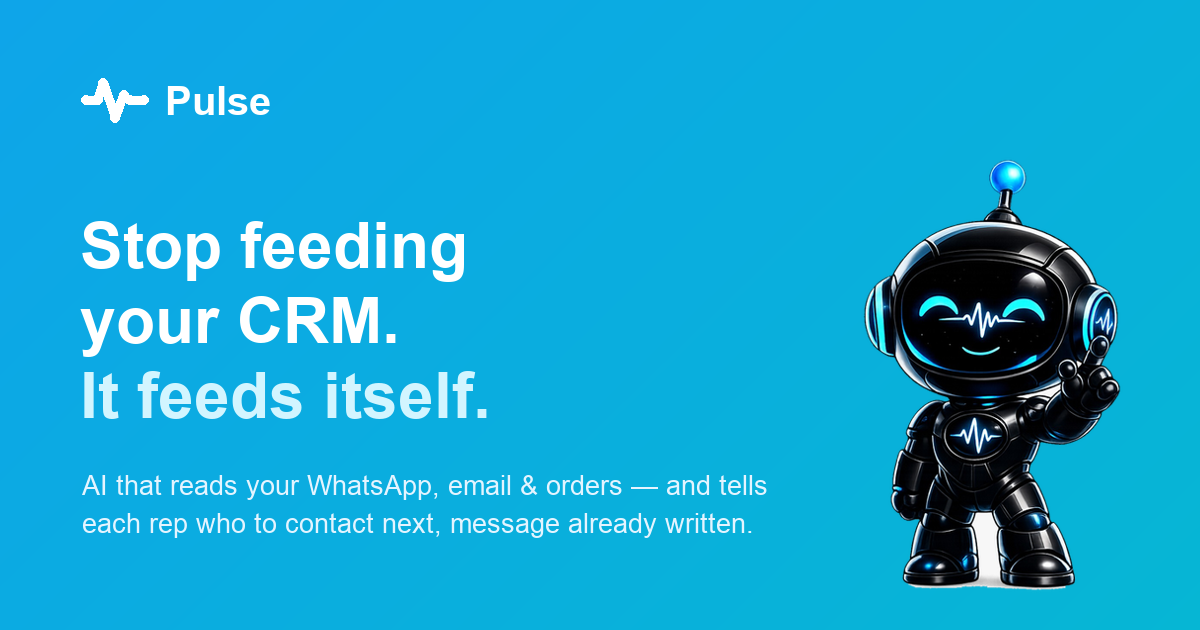
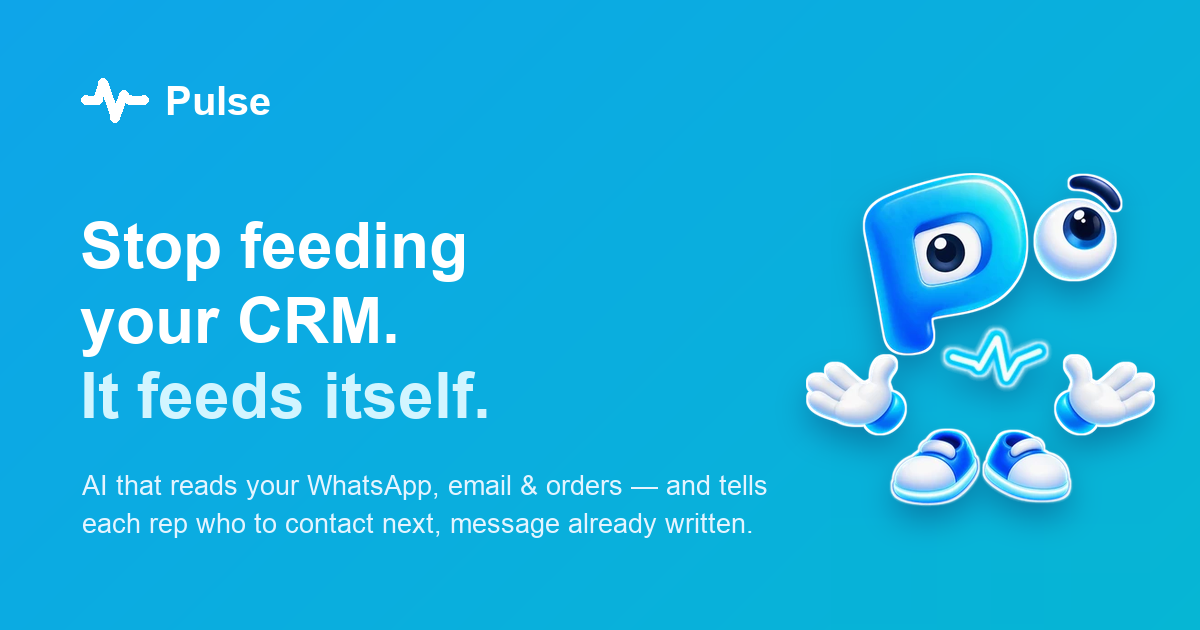
Pulse character replaces the black robot
Hero corner, the 'new rep' chat header, the Meet Pulse band and the
link-preview image (og.png) now use the new Pulse in blue sneakers.
White rim + navy shadow so he reads on the blue backgrounds.

Changed region(s): [[0.6475, 0.2413, 0.9867, 0.9349]]

diff --git a/es.html b/es.html
@@ -122,7 +122,7 @@ section{padding:84px 0}
 .chip small{display:block;font-weight:500;font-size:12.5px;color:var(--muted)}
 .bot{background:linear-gradient(120deg,#0EA5E9,#06b6d4);color:#fff}.bot .eyebrow{color:#e2fbff}
 .bot .wrap{display:grid;grid-template-columns:.8fr 1.2fr;gap:36px;align-items:center;padding:70px 24px}
-.bot img{width:190px;height:auto;filter:drop-shadow(0 18px 34px rgba(0,150,255,.45))}.bot .sub{color:#dbeafe}
+.bot img{width:210px;height:auto;filter:drop-shadow(0 0 1.5px #fff) drop-shadow(0 0 1.5px #fff) drop-shadow(0 16px 26px rgba(8,40,90,.38))}.bot .sub{color:#dbeafe}
 .bqs{display:flex;flex-direction:column;gap:10px;margin-top:22px}
 .bq{background:rgba(255,255,255,.95);border:1px solid rgba(255,255,255,.7);border-radius:12px;padding:13px 16px;font-size:15px;color:#13273f;box-shadow:0 6px 16px rgba(10,40,80,.12)}.bq b{color:var(--sky)}
 @media(max-width:820px){.bot .wrap{grid-template-columns:1fr;text-align:center}.bot img{width:150px}}
@@ -155,7 +155,7 @@ section{padding:84px 0}
 .finalcta h2{color:#fff}.finalcta p{color:rgba(255,255,255,.92);margin:14px auto 26px;max-width:520px}
 footer{background:#060F1C;color:#8598b0;padding:40px 24px;font-size:14px}
 footer .wrap{display:flex;flex-wrap:wrap;gap:16px;justify-content:space-between;align-items:center}footer a:hover{color:#fff}
-.hero h1{max-width:1000px}.grid4{display:grid;grid-template-columns:repeat(2,1fr);gap:20px}.grid4 .card h3{font-size:20px}.hcall{display:grid;grid-template-columns:repeat(3,1fr);gap:12px;max-width:960px;margin:18px auto 0}.hcall div{display:flex;align-items:center;gap:9px;justify-content:center;background:#fff;border:1px solid var(--line);border-radius:999px;padding:9px 14px;font-size:14px;font-weight:600;color:var(--ink);box-shadow:0 6px 16px rgba(10,26,46,.06)}.hcall i{width:20px;height:20px;flex:0 0 20px;border-radius:50%;background:linear-gradient(135deg,#0EA5E9,#06b6d4);color:#fff;font-style:normal;font-size:12px;font-weight:700;display:flex;align-items:center;justify-content:center}.tl{max-width:760px;margin:0 auto;display:flex;flex-direction:column;gap:0}.tl .row{display:grid;grid-template-columns:96px 1fr;gap:18px;align-items:start;padding:16px 0;border-bottom:1px solid var(--line)}.tl .row:last-child{border-bottom:0}.tl .t{font-weight:700;color:var(--sky);font-size:15px;white-space:nowrap}.tl .d{color:var(--ink);font-size:16px}@media(max-width:820px){.grid4{grid-template-columns:1fr}.hcall{grid-template-columns:1fr}.tl .row{grid-template-columns:1fr;gap:4px}}.hand .wrap{display:grid;grid-template-columns:1fr 1fr;gap:48px;align-items:center}.hsteps{list-style:none;margin:24px 0 0;padding:0;display:flex;flex-direction:column;gap:16px}.hsteps li{display:flex;gap:14px;font-size:16px;color:var(--muted);line-height:1.5}.hsteps li b{display:block;color:var(--ink);font-size:17px}.hsteps li .n{flex:0 0 30px;height:30px;border-radius:9px;background:linear-gradient(120deg,var(--sky),var(--cyan));color:#fff;font-weight:800;display:flex;align-items:center;justify-content:center;font-size:14px;margin-top:2px}.hand .tip{margin-top:20px;font-size:14px;color:var(--muted)}.hchat{background:#fff;border:1px solid var(--line);border-radius:20px;box-shadow:0 30px 60px rgba(10,40,80,.12);overflow:hidden}.hchat .hd{background:linear-gradient(120deg,var(--sky),var(--teal));color:#fff;padding:14px 18px;display:flex;gap:12px;align-items:center;font-weight:700;font-size:16px}.hchat .hd img{width:34px;height:auto}.hchat .hd small{display:block;font-weight:500;opacity:.92;font-size:12.5px}.hchat .bd{background:#f8fafc;padding:20px;display:flex;flex-direction:column;gap:12px}.hchat .me{align-self:flex-end;background:var(--sky);color:#fff;border-radius:16px 16px 4px 16px;padding:11px 15px;font-size:15px;max-width:85%}.hchat .ai{align-self:flex-start;background:#fff;border:1px solid var(--line);border-radius:16px 16px 16px 4px;padding:14px 16px;font-size:15px;color:#13273f;max-width:94%;line-height:1.5}.hchat .ai ul{margin:8px 0 0 20px;padding:0;list-style:disc}.hchat .ai li{margin:5px 0;display:list-item}@media(max-width:820px){.hand .wrap{grid-template-columns:1fr}}.form-row input{font-size:16px}@media(max-width:820px),(pointer:coarse){footer a{display:inline-block;padding:10px 0}}section[id]{scroll-margin-top:72px}</style>
+.hero h1{max-width:1000px}.grid4{display:grid;grid-template-columns:repeat(2,1fr);gap:20px}.grid4 .card h3{font-size:20px}.hcall{display:grid;grid-template-columns:repeat(3,1fr);gap:12px;max-width:960px;margin:18px auto 0}.hcall div{display:flex;align-items:center;gap:9px;justify-content:center;background:#fff;border:1px solid var(--line);border-radius:999px;padding:9px 14px;font-size:14px;font-weight:600;color:var(--ink);box-shadow:0 6px 16px rgba(10,26,46,.06)}.hcall i{width:20px;height:20px;flex:0 0 20px;border-radius:50%;background:linear-gradient(135deg,#0EA5E9,#06b6d4);color:#fff;font-style:normal;font-size:12px;font-weight:700;display:flex;align-items:center;justify-content:center}.tl{max-width:760px;margin:0 auto;display:flex;flex-direction:column;gap:0}.tl .row{display:grid;grid-template-columns:96px 1fr;gap:18px;align-items:start;padding:16px 0;border-bottom:1px solid var(--line)}.tl .row:last-child{border-bottom:0}.tl .t{font-weight:700;color:var(--sky);font-size:15px;white-space:nowrap}.tl .d{color:var(--ink);font-size:16px}@media(max-width:820px){.grid4{grid-template-columns:1fr}.hcall{grid-template-columns:1fr}.tl .row{grid-template-columns:1fr;gap:4px}}.hand .wrap{display:grid;grid-template-columns:1fr 1fr;gap:48px;align-items:center}.hsteps{list-style:none;margin:24px 0 0;padding:0;display:flex;flex-direction:column;gap:16px}.hsteps li{display:flex;gap:14px;font-size:16px;color:var(--muted);line-height:1.5}.hsteps li b{display:block;color:var(--ink);font-size:17px}.hsteps li .n{flex:0 0 30px;height:30px;border-radius:9px;background:linear-gradient(120deg,var(--sky),var(--cyan));color:#fff;font-weight:800;display:flex;align-items:center;justify-content:center;font-size:14px;margin-top:2px}.hand .tip{margin-top:20px;font-size:14px;color:var(--muted)}.hchat{background:#fff;border:1px solid var(--line);border-radius:20px;box-shadow:0 30px 60px rgba(10,40,80,.12);overflow:hidden}.hchat .hd{background:linear-gradient(120deg,var(--sky),var(--teal));color:#fff;padding:14px 18px;display:flex;gap:12px;align-items:center;font-weight:700;font-size:16px}.hchat .hd img{width:40px;height:40px;background:#fff;border-radius:50%;padding:4px;box-shadow:0 4px 10px rgba(8,40,90,.18)}.hchat .hd small{display:block;font-weight:500;opacity:.92;font-size:12.5px}.hchat .bd{background:#f8fafc;padding:20px;display:flex;flex-direction:column;gap:12px}.hchat .me{align-self:flex-end;background:var(--sky);color:#fff;border-radius:16px 16px 4px 16px;padding:11px 15px;font-size:15px;max-width:85%}.hchat .ai{align-self:flex-start;background:#fff;border:1px solid var(--line);border-radius:16px 16px 16px 4px;padding:14px 16px;font-size:15px;color:#13273f;max-width:94%;line-height:1.5}.hchat .ai ul{margin:8px 0 0 20px;padding:0;list-style:disc}.hchat .ai li{margin:5px 0;display:list-item}@media(max-width:820px){.hand .wrap{grid-template-columns:1fr}}.form-row input{font-size:16px}@media(max-width:820px),(pointer:coarse){footer a{display:inline-block;padding:10px 0}}section[id]{scroll-margin-top:72px}</style>
 </head>
 <body>
 <nav><div class="wrap">
@@ -176,7 +176,7 @@ footer .wrap{display:flex;flex-wrap:wrap;gap:16px;justify-content:space-between;
  <p class="voiceline">Texto, correo, notas de voz y fotos. Pulse lo escucha todo, y tambi&eacute;n lo ve.</p>
  <div class="cta"><a class="btn btn-p" href="#early-access">Solicitar acceso</a><a class="btn btn-o" href="#shots">V&eacute;lo en vivo</a></div>
  <p class="trust">Para negocios donde la pr&oacute;xima orden importa m&aacute;s que el primer prospecto.</p><div class="proof" style="border-top:0;margin:26px auto 0;max-width:900px;border-radius:14px;padding:22px 24px"><p>Hecho dentro de un <b>distribuidor de electr&oacute;nicos</b> que trabaja, corriendo en vivo con <b>m&aacute;s de 1,500 cuentas reales</b> y <b>m&aacute;s de 140,000 mensajes</b> le&iacute;dos, en ingl&eacute;s y espa&ntilde;ol.</p><span>Hecho por un distribuidor, no por una empresa de software.</span></div>
- <div class="heroshot"><div class="frame"><div class="bar"><i></i><i></i><i></i><span>app.aisalespulse.com</span></div><img class="shot" src="/img/hero-dashboard.webp" width="1920" height="1104" alt="Panel de Pulse, alertas inteligentes y seguimientos de clientes" fetchpriority="high"></div><img class="corner-mascot" src="/img/mascot.webp" width="300" height="475" alt="Pulse" fetchpriority="high"></div>
+ <div class="heroshot"><div class="frame"><div class="bar"><i></i><i></i><i></i><span>app.aisalespulse.com</span></div><img class="shot" src="/img/hero-dashboard.webp" width="1920" height="1104" alt="Panel de Pulse, alertas inteligentes y seguimientos de clientes" fetchpriority="high"></div><img class="corner-mascot" src="/img/mascot.webp" width="300" height="291" alt="Pulse" fetchpriority="high"></div>
  <div class="hcall"><div><i>1</i>Qui&eacute;n necesita atenci&oacute;n</div><div><i>2</i>Qu&eacute; compra normalmente</div><div><i>3</i>Qu&eacute; ofrecerle hoy</div></div><p class="shotnote">Los nombres de clientes y contactos que se muestran son ficticios, cambiados para proteger la privacidad.</p>
 </div></header>
 <div class="wedge"><p><span class="a">Cualquier otro CRM es un archivero que t&uacute; tienes que llenar.</span><br><span class="b">Pulse escucha, recuerda y trabaja tu cartera por ti.</span></p></div>
@@ -196,7 +196,7 @@ footer .wrap{display:flex;flex-wrap:wrap;gap:16px;justify-content:space-between;
   <ul class="hsteps"><li><span class="n">1</span><span><b>Nada se va por la puerta.</b>Chats, notas, promesas pendientes e historial de compras se quedan con la empresa.</span></li><li><span class="n">2</span><span><b>Traspaso en un clic.</b>Asigna todas las cuentas al nuevo vendedor. Su tablero se llena con lo que est&aacute; pendiente.</span></li><li><span class="n">3</span><span><b>Un resumen desde el primer d&iacute;a.</b>El nuevo vendedor le pregunta a Pulse por cualquier cliente y recibe toda la historia en segundos.</span></li></ul>
   <p class="tip">Consejo: dale a cada vendedor un n&uacute;mero de WhatsApp de la empresa, as&iacute; los mensajes nuevos siguen llegando a quien tenga la cuenta.</p>
  </div>
- <div class="hchat"><div class="hd"><img src="/img/mascot-small.webp" width="180" height="213" alt="" loading="lazy"><div>Pulse<small>Primer d&iacute;a, vendedor nuevo</small></div></div>
+ <div class="hchat"><div class="hd"><img src="/img/mascot-face.webp" width="96" height="96" alt="" loading="lazy"><div>Pulse<small>Primer d&iacute;a, vendedor nuevo</small></div></div>
   <div class="bd"><div class="me">Dame un resumen de Island Breeze Electronics.</div><div class="ai"><b>Island Breeze Electronics</b>, comprador Marcus Thompson.<ul><li>Compra TVs y audio cada 10 d&iacute;as aprox., sobre todo de 55 pulgadas.</li><li>Abre una segunda tienda en Marsh Harbour. El primer contenedor sale en dos semanas.</li><li><b>Pendiente:</b> pidi&oacute; apartar 40 TVs LG de 55&quot;. El PO todav&iacute;a no lleg&oacute;.</li><li>Prefiere WhatsApp, contesta m&aacute;s r&aacute;pido despu&eacute;s de las 3pm.</li></ul></div></div></div>
 </div></section>
 <section id="admin" class="soft"><div class="wrap">
@@ -217,7 +217,7 @@ footer .wrap{display:flex;flex-wrap:wrap;gap:16px;justify-content:space-between;
  </div>
 </div></section>
 <section class="bot"><div class="wrap">
- <img src="/img/mascot-small.webp" width="180" height="213" alt="Pulse" loading="lazy">
+ <img src="/img/mascot-small.webp" width="380" height="364" alt="Pulse" loading="lazy">
  <div><span class="eyebrow">Conoce a Pulse</span><h2 style="color:#fff;margin:12px 0 14px">Preg&uacute;ntale lo que sea a Pulse sobre tu negocio</h2>
   <p class="sub">Pulse es un chatbot que de verdad conoce tus cuentas, pedidos y conversaciones. Sin paneles que revisar, solo pregunta.</p>
   <div class="bqs"><div class="bq"><b>T&uacute;:</b> &iquest;Qui&eacute;n no ha comprado en 60 d&iacute;as?</div><div class="bq"><b>T&uacute;:</b> &iquest;Qu&eacute; le promet&iacute; a mi mejor cuenta la semana pasada?</div><div class="bq"><b>T&uacute;:</b> &iquest;Qui&eacute;n compra bocinas y podr&iacute;a querer los nuevos aud&iacute;fonos?</div></div>

diff --git a/index.html b/index.html
@@ -122,7 +122,7 @@ section{padding:84px 0}
 .chip small{display:block;font-weight:500;font-size:12.5px;color:var(--muted)}
 .bot{background:linear-gradient(120deg,#0EA5E9,#06b6d4);color:#fff}.bot .eyebrow{color:#e2fbff}
 .bot .wrap{display:grid;grid-template-columns:.8fr 1.2fr;gap:36px;align-items:center;padding:70px 24px}
-.bot img{width:190px;height:auto;filter:drop-shadow(0 18px 34px rgba(0,150,255,.45))}.bot .sub{color:#dbeafe}
+.bot img{width:210px;height:auto;filter:drop-shadow(0 0 1.5px #fff) drop-shadow(0 0 1.5px #fff) drop-shadow(0 16px 26px rgba(8,40,90,.38))}.bot .sub{color:#dbeafe}
 .bqs{display:flex;flex-direction:column;gap:10px;margin-top:22px}
 .bq{background:rgba(255,255,255,.95);border:1px solid rgba(255,255,255,.7);border-radius:12px;padding:13px 16px;font-size:15px;color:#13273f;box-shadow:0 6px 16px rgba(10,40,80,.12)}.bq b{color:var(--sky)}
 @media(max-width:820px){.bot .wrap{grid-template-columns:1fr;text-align:center}.bot img{width:150px}}
@@ -155,7 +155,7 @@ section{padding:84px 0}
 .finalcta h2{color:#fff}.finalcta p{color:rgba(255,255,255,.92);margin:14px auto 26px;max-width:520px}
 footer{background:#060F1C;color:#8598b0;padding:40px 24px;font-size:14px}
 footer .wrap{display:flex;flex-wrap:wrap;gap:16px;justify-content:space-between;align-items:center}footer a:hover{color:#fff}
-.hero h1{max-width:1000px}.grid4{display:grid;grid-template-columns:repeat(2,1fr);gap:20px}.grid4 .card h3{font-size:20px}.hcall{display:grid;grid-template-columns:repeat(3,1fr);gap:12px;max-width:960px;margin:18px auto 0}.hcall div{display:flex;align-items:center;gap:9px;justify-content:center;background:#fff;border:1px solid var(--line);border-radius:999px;padding:9px 14px;font-size:14px;font-weight:600;color:var(--ink);box-shadow:0 6px 16px rgba(10,26,46,.06)}.hcall i{width:20px;height:20px;flex:0 0 20px;border-radius:50%;background:linear-gradient(135deg,#0EA5E9,#06b6d4);color:#fff;font-style:normal;font-size:12px;font-weight:700;display:flex;align-items:center;justify-content:center}.tl{max-width:760px;margin:0 auto;display:flex;flex-direction:column;gap:0}.tl .row{display:grid;grid-template-columns:96px 1fr;gap:18px;align-items:start;padding:16px 0;border-bottom:1px solid var(--line)}.tl .row:last-child{border-bottom:0}.tl .t{font-weight:700;color:var(--sky);font-size:15px;white-space:nowrap}.tl .d{color:var(--ink);font-size:16px}@media(max-width:820px){.grid4{grid-template-columns:1fr}.hcall{grid-template-columns:1fr}.tl .row{grid-template-columns:1fr;gap:4px}}.hand .wrap{display:grid;grid-template-columns:1fr 1fr;gap:48px;align-items:center}.hsteps{list-style:none;margin:24px 0 0;padding:0;display:flex;flex-direction:column;gap:16px}.hsteps li{display:flex;gap:14px;font-size:16px;color:var(--muted);line-height:1.5}.hsteps li b{display:block;color:var(--ink);font-size:17px}.hsteps li .n{flex:0 0 30px;height:30px;border-radius:9px;background:linear-gradient(120deg,var(--sky),var(--cyan));color:#fff;font-weight:800;display:flex;align-items:center;justify-content:center;font-size:14px;margin-top:2px}.hand .tip{margin-top:20px;font-size:14px;color:var(--muted)}.hchat{background:#fff;border:1px solid var(--line);border-radius:20px;box-shadow:0 30px 60px rgba(10,40,80,.12);overflow:hidden}.hchat .hd{background:linear-gradient(120deg,var(--sky),var(--teal));color:#fff;padding:14px 18px;display:flex;gap:12px;align-items:center;font-weight:700;font-size:16px}.hchat .hd img{width:34px;height:auto}.hchat .hd small{display:block;font-weight:500;opacity:.92;font-size:12.5px}.hchat .bd{background:#f8fafc;padding:20px;display:flex;flex-direction:column;gap:12px}.hchat .me{align-self:flex-end;background:var(--sky);color:#fff;border-radius:16px 16px 4px 16px;padding:11px 15px;font-size:15px;max-width:85%}.hchat .ai{align-self:flex-start;background:#fff;border:1px solid var(--line);border-radius:16px 16px 16px 4px;padding:14px 16px;font-size:15px;color:#13273f;max-width:94%;line-height:1.5}.hchat .ai ul{margin:8px 0 0 20px;padding:0;list-style:disc}.hchat .ai li{margin:5px 0;display:list-item}@media(max-width:820px){.hand .wrap{grid-template-columns:1fr}}.form-row input{font-size:16px}@media(max-width:820px),(pointer:coarse){footer a{display:inline-block;padding:10px 0}}section[id]{scroll-margin-top:72px}</style>
+.hero h1{max-width:1000px}.grid4{display:grid;grid-template-columns:repeat(2,1fr);gap:20px}.grid4 .card h3{font-size:20px}.hcall{display:grid;grid-template-columns:repeat(3,1fr);gap:12px;max-width:960px;margin:18px auto 0}.hcall div{display:flex;align-items:center;gap:9px;justify-content:center;background:#fff;border:1px solid var(--line);border-radius:999px;padding:9px 14px;font-size:14px;font-weight:600;color:var(--ink);box-shadow:0 6px 16px rgba(10,26,46,.06)}.hcall i{width:20px;height:20px;flex:0 0 20px;border-radius:50%;background:linear-gradient(135deg,#0EA5E9,#06b6d4);color:#fff;font-style:normal;font-size:12px;font-weight:700;display:flex;align-items:center;justify-content:center}.tl{max-width:760px;margin:0 auto;display:flex;flex-direction:column;gap:0}.tl .row{display:grid;grid-template-columns:96px 1fr;gap:18px;align-items:start;padding:16px 0;border-bottom:1px solid var(--line)}.tl .row:last-child{border-bottom:0}.tl .t{font-weight:700;color:var(--sky);font-size:15px;white-space:nowrap}.tl .d{color:var(--ink);font-size:16px}@media(max-width:820px){.grid4{grid-template-columns:1fr}.hcall{grid-template-columns:1fr}.tl .row{grid-template-columns:1fr;gap:4px}}.hand .wrap{display:grid;grid-template-columns:1fr 1fr;gap:48px;align-items:center}.hsteps{list-style:none;margin:24px 0 0;padding:0;display:flex;flex-direction:column;gap:16px}.hsteps li{display:flex;gap:14px;font-size:16px;color:var(--muted);line-height:1.5}.hsteps li b{display:block;color:var(--ink);font-size:17px}.hsteps li .n{flex:0 0 30px;height:30px;border-radius:9px;background:linear-gradient(120deg,var(--sky),var(--cyan));color:#fff;font-weight:800;display:flex;align-items:center;justify-content:center;font-size:14px;margin-top:2px}.hand .tip{margin-top:20px;font-size:14px;color:var(--muted)}.hchat{background:#fff;border:1px solid var(--line);border-radius:20px;box-shadow:0 30px 60px rgba(10,40,80,.12);overflow:hidden}.hchat .hd{background:linear-gradient(120deg,var(--sky),var(--teal));color:#fff;padding:14px 18px;display:flex;gap:12px;align-items:center;font-weight:700;font-size:16px}.hchat .hd img{width:40px;height:40px;background:#fff;border-radius:50%;padding:4px;box-shadow:0 4px 10px rgba(8,40,90,.18)}.hchat .hd small{display:block;font-weight:500;opacity:.92;font-size:12.5px}.hchat .bd{background:#f8fafc;padding:20px;display:flex;flex-direction:column;gap:12px}.hchat .me{align-self:flex-end;background:var(--sky);color:#fff;border-radius:16px 16px 4px 16px;padding:11px 15px;font-size:15px;max-width:85%}.hchat .ai{align-self:flex-start;background:#fff;border:1px solid var(--line);border-radius:16px 16px 16px 4px;padding:14px 16px;font-size:15px;color:#13273f;max-width:94%;line-height:1.5}.hchat .ai ul{margin:8px 0 0 20px;padding:0;list-style:disc}.hchat .ai li{margin:5px 0;display:list-item}@media(max-width:820px){.hand .wrap{grid-template-columns:1fr}}.form-row input{font-size:16px}@media(max-width:820px),(pointer:coarse){footer a{display:inline-block;padding:10px 0}}section[id]{scroll-margin-top:72px}</style>
 </head>
 <body>
 <nav><div class="wrap">
@@ -176,7 +176,7 @@ footer .wrap{display:flex;flex-wrap:wrap;gap:16px;justify-content:space-between;
  <p class="voiceline">Text, email, voice notes, and photos. Pulse hears it all, and sees it too.</p>
  <div class="cta"><a class="btn btn-p" href="#early-access">Get early access</a><a class="btn btn-o" href="#shots">See it live</a></div>
  <p class="trust">Built for businesses where the next order matters more than the first lead.</p><div class="proof" style="border-top:0;margin:26px auto 0;max-width:900px;border-radius:14px;padding:22px 24px"><p>Built inside a working <b>electronics distributor</b>, running live on <b>1,500+ real accounts</b> with <b>140,000+ messages</b> read, in English and Spanish.</p><span>Made by a distributor, not a software company.</span></div>
- <div class="heroshot"><div class="frame"><div class="bar"><i></i><i></i><i></i><span>app.aisalespulse.com</span></div><img class="shot" src="/img/hero-dashboard.webp" width="1920" height="1104" alt="Pulse dashboard, Smart Alerts and Customer Follow-ups" fetchpriority="high"></div><img class="corner-mascot" src="/img/mascot.webp" width="300" height="475" alt="Pulse" fetchpriority="high"></div>
+ <div class="heroshot"><div class="frame"><div class="bar"><i></i><i></i><i></i><span>app.aisalespulse.com</span></div><img class="shot" src="/img/hero-dashboard.webp" width="1920" height="1104" alt="Pulse dashboard, Smart Alerts and Customer Follow-ups" fetchpriority="high"></div><img class="corner-mascot" src="/img/mascot.webp" width="300" height="291" alt="Pulse" fetchpriority="high"></div>
  <div class="hcall"><div><i>1</i>Who needs attention</div><div><i>2</i>What they normally buy</div><div><i>3</i>What to offer today</div></div><p class="shotnote">Customer and contact names shown are fictional, changed to protect privacy.</p>
 </div></header>
 <div class="wedge"><p><span class="a">Every other CRM is a filing cabinet you have to fill in.</span><br><span class="b">Pulse listens, remembers, and works your book for you.</span></p></div>
@@ -196,7 +196,7 @@ footer .wrap{display:flex;flex-wrap:wrap;gap:16px;justify-content:space-between;
   <ul class="hsteps"><li><span class="n">1</span><span><b>Nothing walks out the door.</b>Chats, notes, open promises and buying history stay with the company.</span></li><li><span class="n">2</span><span><b>One-click handover.</b>Move every account to the new rep. Their board fills up with whatever is open.</span></li><li><span class="n">3</span><span><b>A rundown on day one.</b>The new rep asks Pulse about any customer and gets the whole story in seconds.</span></li></ul>
   <p class="tip">Tip: give each rep a company WhatsApp number, so new messages keep coming to whoever has the account.</p>
  </div>
- <div class="hchat"><div class="hd"><img src="/img/mascot-small.webp" width="180" height="213" alt="" loading="lazy"><div>Pulse<small>Day one, new rep</small></div></div>
+ <div class="hchat"><div class="hd"><img src="/img/mascot-face.webp" width="96" height="96" alt="" loading="lazy"><div>Pulse<small>Day one, new rep</small></div></div>
   <div class="bd"><div class="me">Give me a rundown on Island Breeze Electronics.</div><div class="ai"><b>Island Breeze Electronics</b>, buyer Marcus Thompson.<ul><li>Orders TVs and audio about every 10 days, mostly 55 inch.</li><li>Opening a second store in Marsh Harbour. First container ships in two weeks.</li><li><b>Open:</b> he asked to hold 40 LG 55&quot; TVs. The PO hasn&rsquo;t come in yet.</li><li>Prefers WhatsApp, answers fastest after 3pm.</li></ul></div></div></div>
 </div></section>
 <section id="admin" class="soft"><div class="wrap">
@@ -217,7 +217,7 @@ footer .wrap{display:flex;flex-wrap:wrap;gap:16px;justify-content:space-between;
  </div>
 </div></section>
 <section class="bot"><div class="wrap">
- <img src="/img/mascot-small.webp" width="180" height="213" alt="Pulse" loading="lazy">
+ <img src="/img/mascot-small.webp" width="380" height="364" alt="Pulse" loading="lazy">
  <div><span class="eyebrow">Meet Pulse</span><h2 style="color:#fff;margin:12px 0 14px">Ask Pulse anything about your business</h2>
   <p class="sub">Pulse is a chatbot that actually knows your accounts, orders, and conversations. No dashboards to dig through, just ask.</p>
   <div class="bqs"><div class="bq"><b>You:</b> Who hasn&rsquo;t ordered in 60 days?</div><div class="bq"><b>You:</b> What did I promise my top account last week?</div><div class="bq"><b>You:</b> Who buys speakers and might want the new headphones?</div></div>
